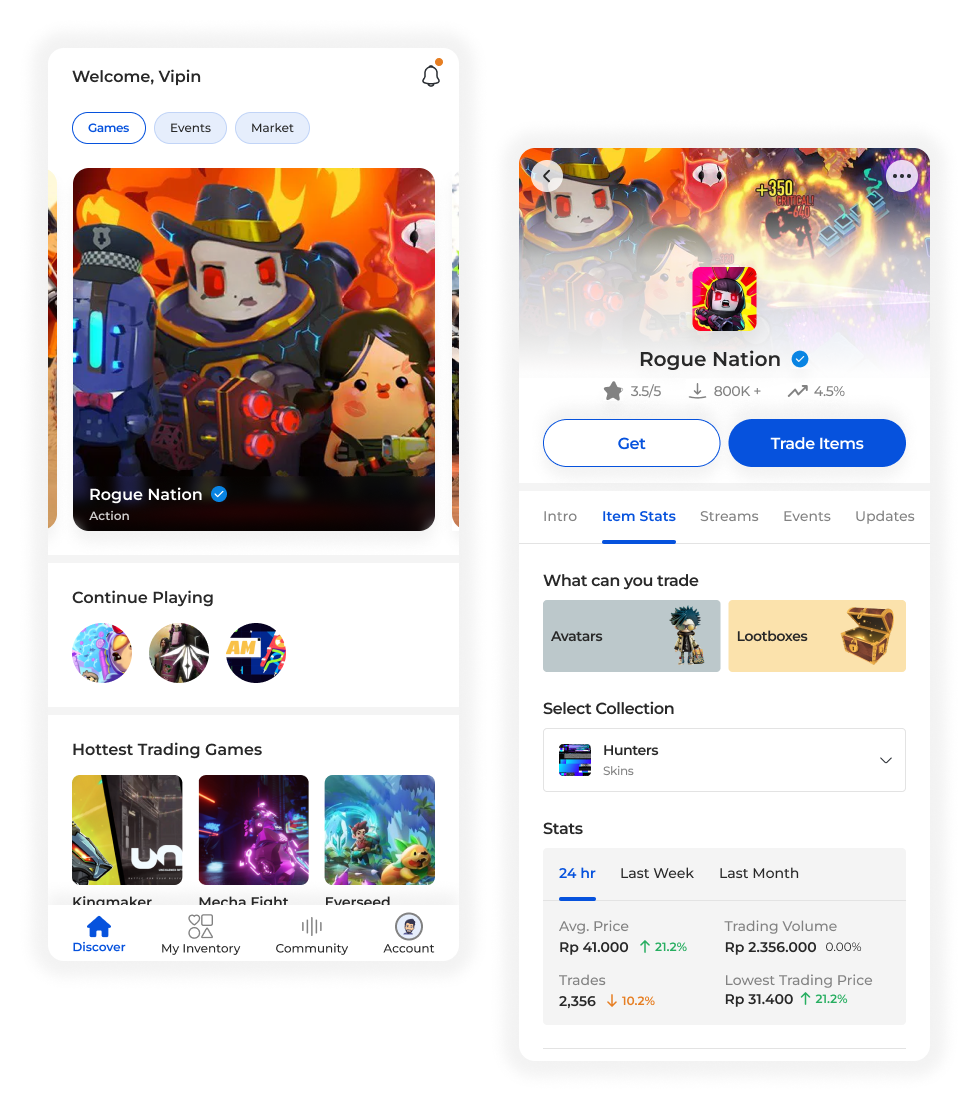
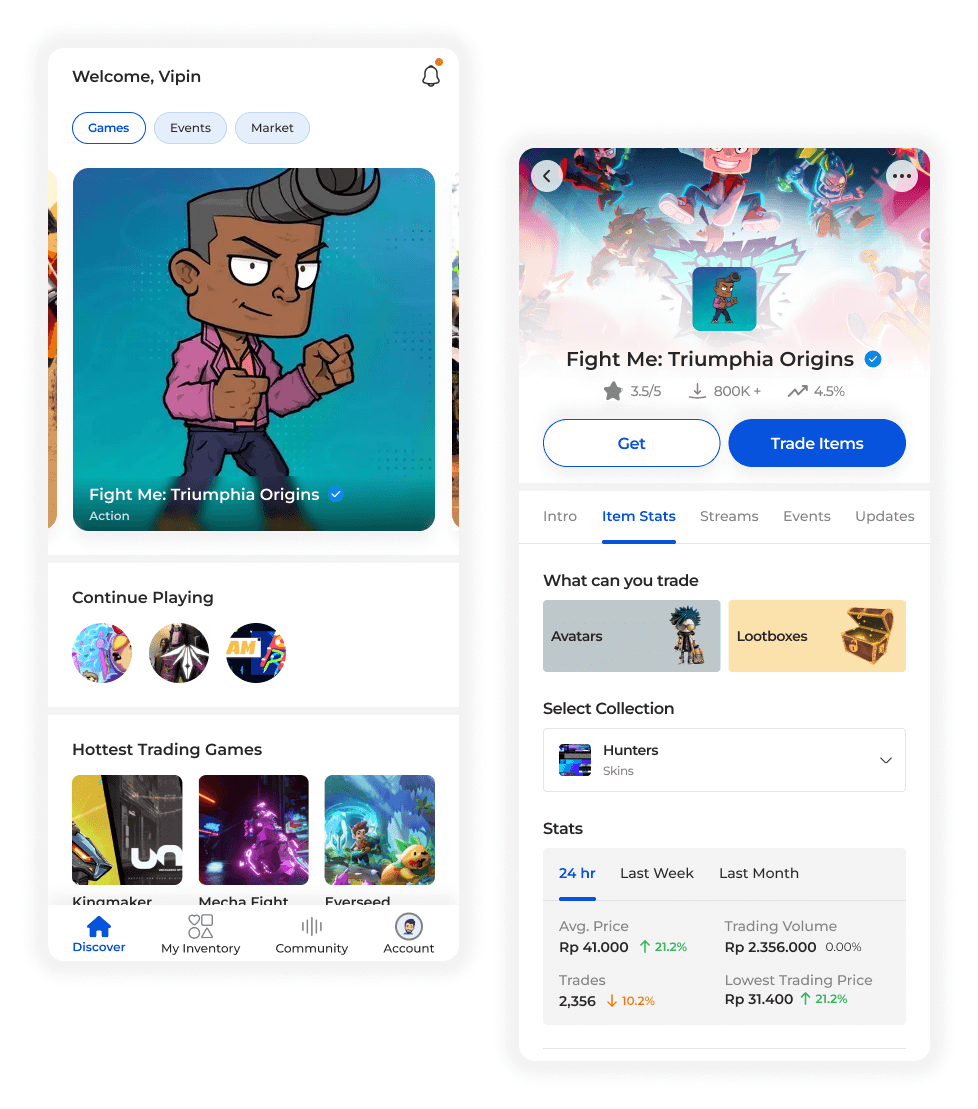
images added
thumbnail, final 1 and 2

diff --git a/supaki/index.html b/supaki/index.html
@@ -92,8 +92,8 @@
                 <h2 class="ft24 fw600 txtgrey pt-3 pt-lg-0 my-4 my-lg-0">Design and Prototyping</h2>
                 <p>Translated wireframes into high-fidelity designs, paying attention to visual appeal and brand consistency. Developed interactive prototypes to simulate user interactions and refine the design.</p>
                 <h3 class="fw600 ft18 txtgrey pt-3 pt-lg-0 my-4 my-lg-0">Final Layouts</h3>
-                <img src="../assets/images/dashboard-v2.png" class="img-fluid position-relative" alt="">
-                <img src="../assets/images/dashboard-v2.png" class="img-fluid position-relative" alt="">
+                <img src="../assets/images/supaki-final-layout-1.png" class="img-fluid position-relative" alt="">
+                <img src="../assets/images/supaki-final-layout-2.png" class="img-fluid position-relative" alt="">
                 <h2 class="ft24 fw600 txtgrey pt-3 pt-lg-0 my-4 my-lg-0">User Testing</h2>
                 <p>Conducted usability testing with real users to identify any pain points or areas for improvement. Did many minor and major iterations on the design based on user feedback and testing results. SupaKI successfully met its objectives, providing a holistic gaming experience for users. Positive user feedback, increased engagement metrics, and a growing community indicate the app's success in meeting the diverse needs of the gaming audience. Ongoing iterations based on user feedback ensure continuous improvement and adaptability to evolving user expectations</p>
                 <h2 class="ft24 fw600 txtgrey pt-3 pt-lg-0 my-4 my-lg-0">Implementation and Development</h2>
